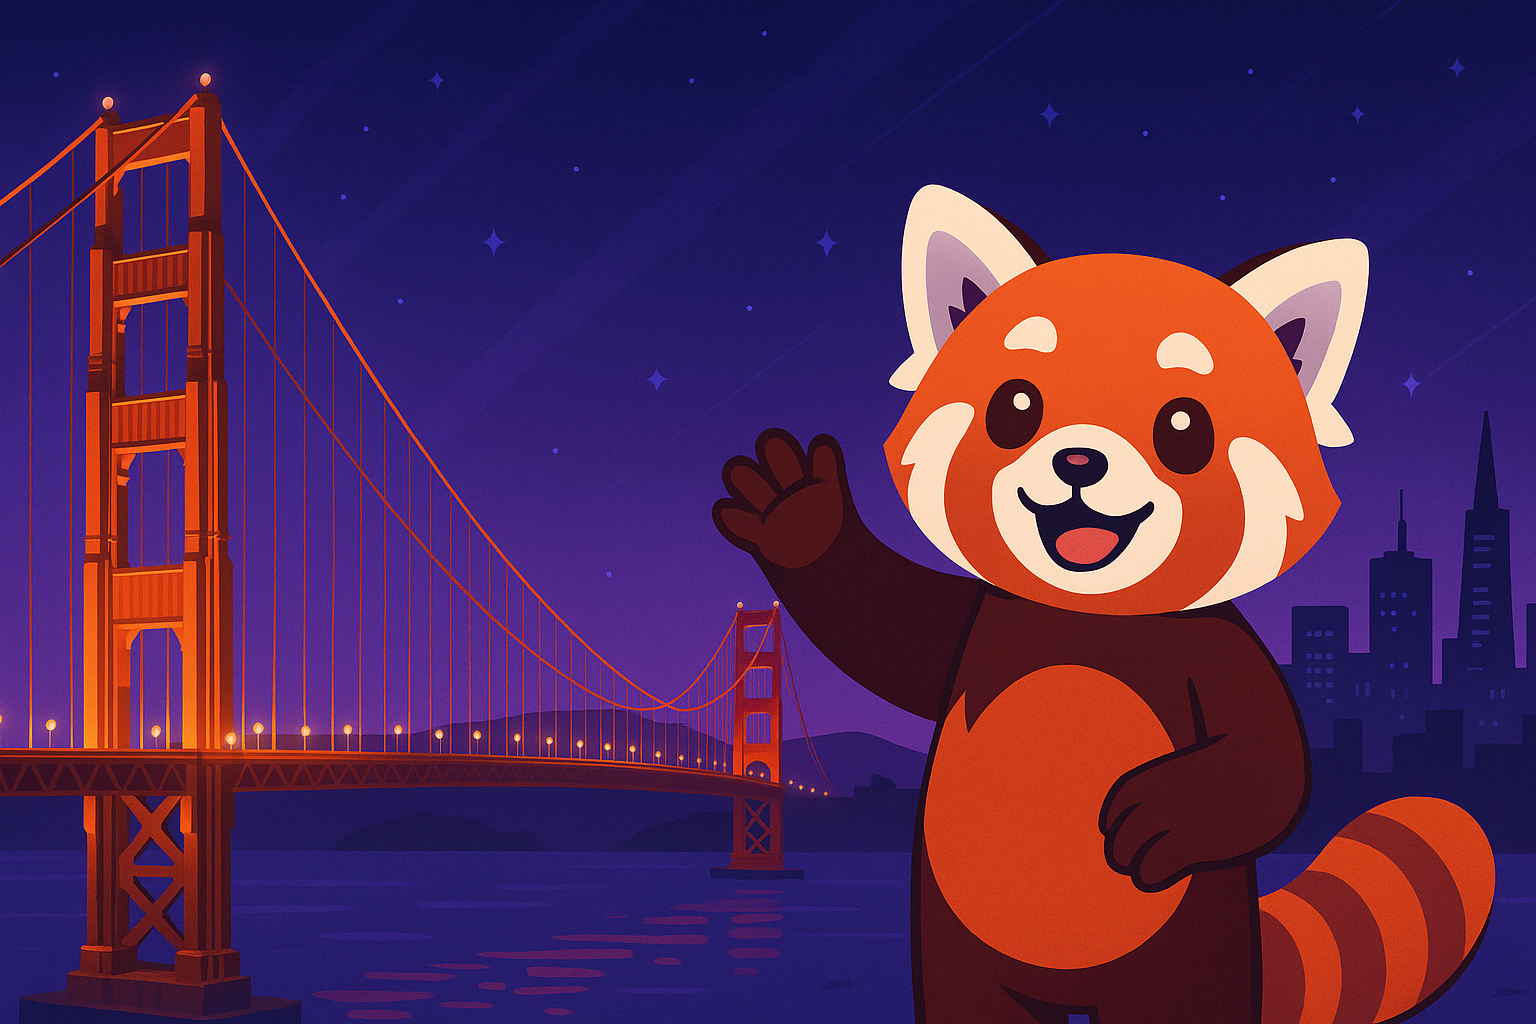
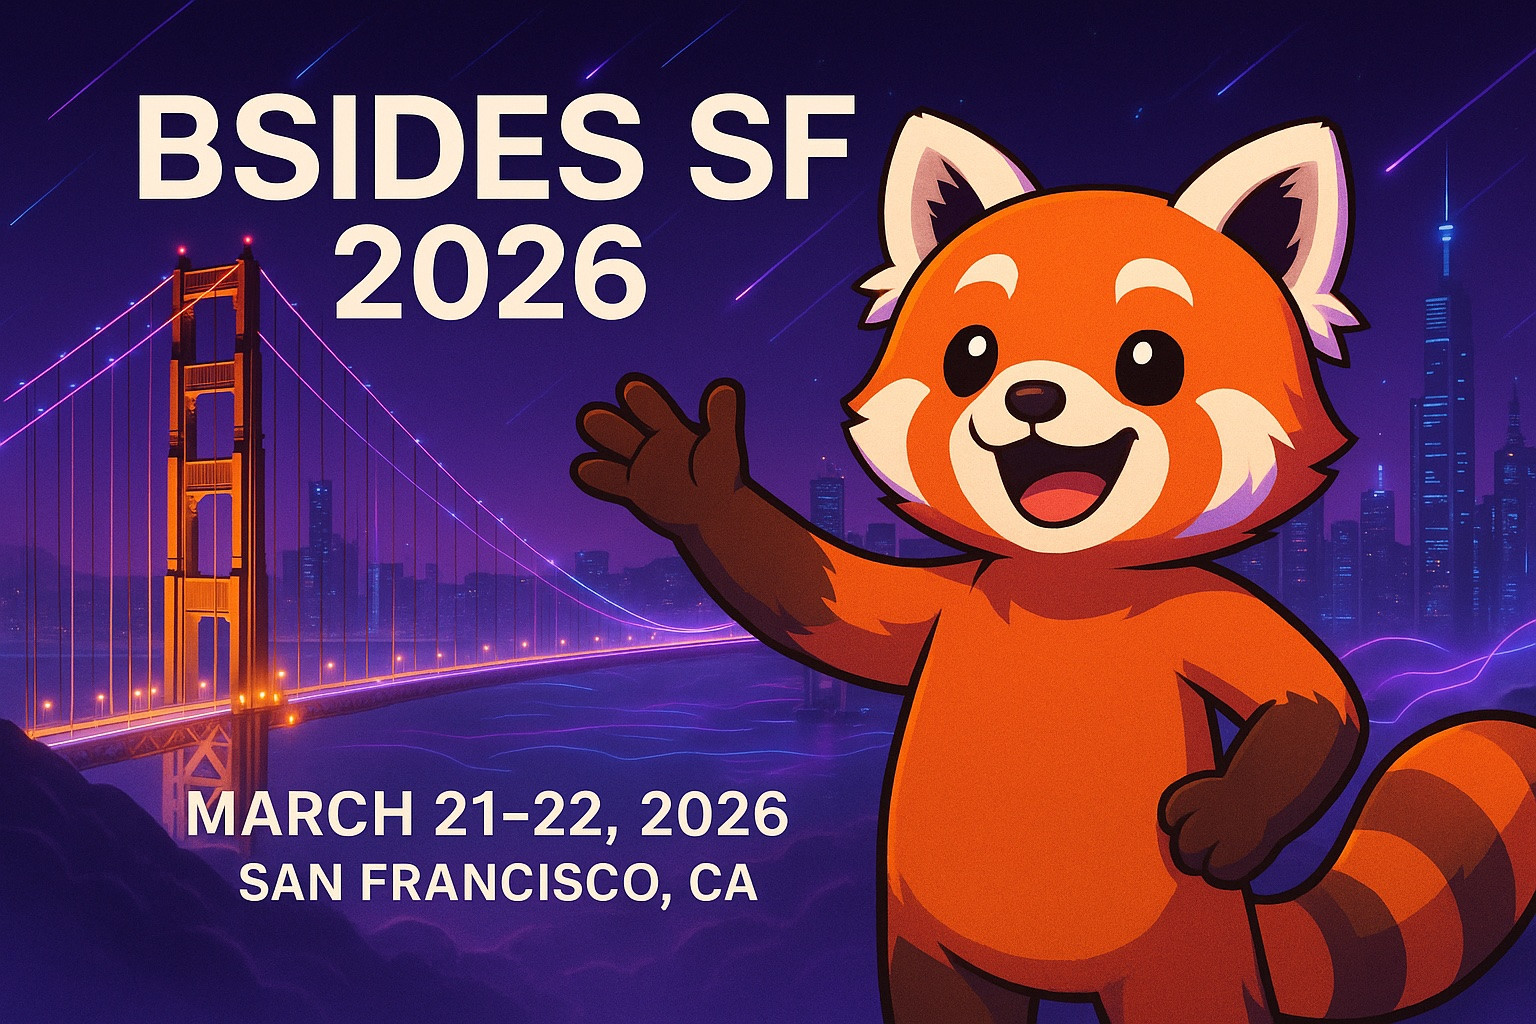
docs(site): correct event dates and venue for BSides SF 2026 and RSA 2026 (#6977)

diff --git a/site/src/components/Events/FeaturedEvent.tsx b/site/src/components/Events/FeaturedEvent.tsx
@@ -47,9 +47,7 @@ export default function FeaturedEvent({ event }: FeaturedEventProps): React.Reac
                 <path d="M17.657 16.657L13.414 20.9a1.998 1.998 0 01-2.827 0l-4.244-4.243a8 8 0 1111.314 0z" />
                 <path d="M15 11a3 3 0 11-6 0 3 3 0 016 0z" />
               </svg>
-              <span>
-                {event.location.venue}, {formatEventLocation(event.location)}
-              </span>
+              <span>{formatEventLocation(event.location)}</span>
             </div>
 
             {event.booth && (
@@ -146,13 +144,6 @@ export default function FeaturedEvent({ event }: FeaturedEventProps): React.Reac
                 <span className={styles.placeholderIcon}>
                   {event.type === 'conference' ? '🎪' : event.type === 'party' ? '🎉' : '📅'}
                 </span>
-              </div>
-            )}
-            {event.id === 'bsides-sf-2026' && (
-              <div className={styles.imageOverlay}>
-                <span className={styles.overlayTitle}>BSidesSF 2026</span>
-                <span className={styles.overlayMeta}>March 21-22, 2026</span>
-                <span className={styles.overlayVenue}>City View at Metreon, SF</span>
               </div>
             )}
           </div>

diff --git a/site/src/pages/events/bsides-sf-2026.tsx b/site/src/pages/events/bsides-sf-2026.tsx
@@ -134,7 +134,7 @@ export default function BSidesSF2026(): React.ReactElement {
             <div className={styles.heroMeta}>
               <span className={styles.heroDate}>March 21-22, 2026</span>
               <span className={styles.heroDivider}>•</span>
-              <span className={styles.heroVenue}>City View at Metreon</span>
+              <span className={styles.heroVenue}>San Francisco</span>
             </div>
           </div>
         </section>
@@ -176,7 +176,7 @@ export default function BSidesSF2026(): React.ReactElement {
                     d="M15 11a3 3 0 11-6 0 3 3 0 016 0z"
                   />
                 </svg>
-                <span>City View at Metreon, SF</span>
+                <span>San Francisco, CA</span>
               </div>
             </div>
             <div className={styles.heroCtas}>

diff --git a/site/src/data/events.ts b/site/src/data/events.ts
@@ -90,8 +90,8 @@ export const events: Event[] = [
     shortName: 'RSA 2026',
     status: 'upcoming',
     type: 'conference',
-    startDate: '2026-03-23',
-    endDate: '2026-03-26',
+    startDate: '2026-03-23T12:00:00',
+    endDate: '2026-03-26T12:00:00',
     location: {
       venue: 'Moscone Center',
       city: 'San Francisco',
@@ -130,10 +130,10 @@ export const events: Event[] = [
     shortName: 'BSides SF 2026',
     status: 'upcoming',
     type: 'conference',
-    startDate: '2026-03-21',
-    endDate: '2026-03-22',
+    startDate: '2026-03-21T12:00:00',
+    endDate: '2026-03-22T12:00:00',
     location: {
-      venue: 'City View at Metreon',
+      venue: 'San Francisco',
       city: 'San Francisco',
       state: 'CA',
       country: 'USA',

diff --git a/site/src/components/Events/EventCard.tsx b/site/src/components/Events/EventCard.tsx
@@ -27,12 +27,6 @@ export default function EventCard({ event }: EventCardProps): React.ReactElement
             </span>
           </div>
         )}
-        {event.id === 'bsides-sf-2026' && (
-          <div className={styles.imageOverlay}>
-            <span className={styles.overlayTitle}>BSidesSF 2026</span>
-            <span className={styles.overlayMeta}>March 21-22, 2026 · San Francisco</span>
-          </div>
-        )}
         <span className={`${styles.badge} ${styles[event.status]}`}>
           {event.status === 'upcoming' ? 'Upcoming' : 'Past'}
         </span>
